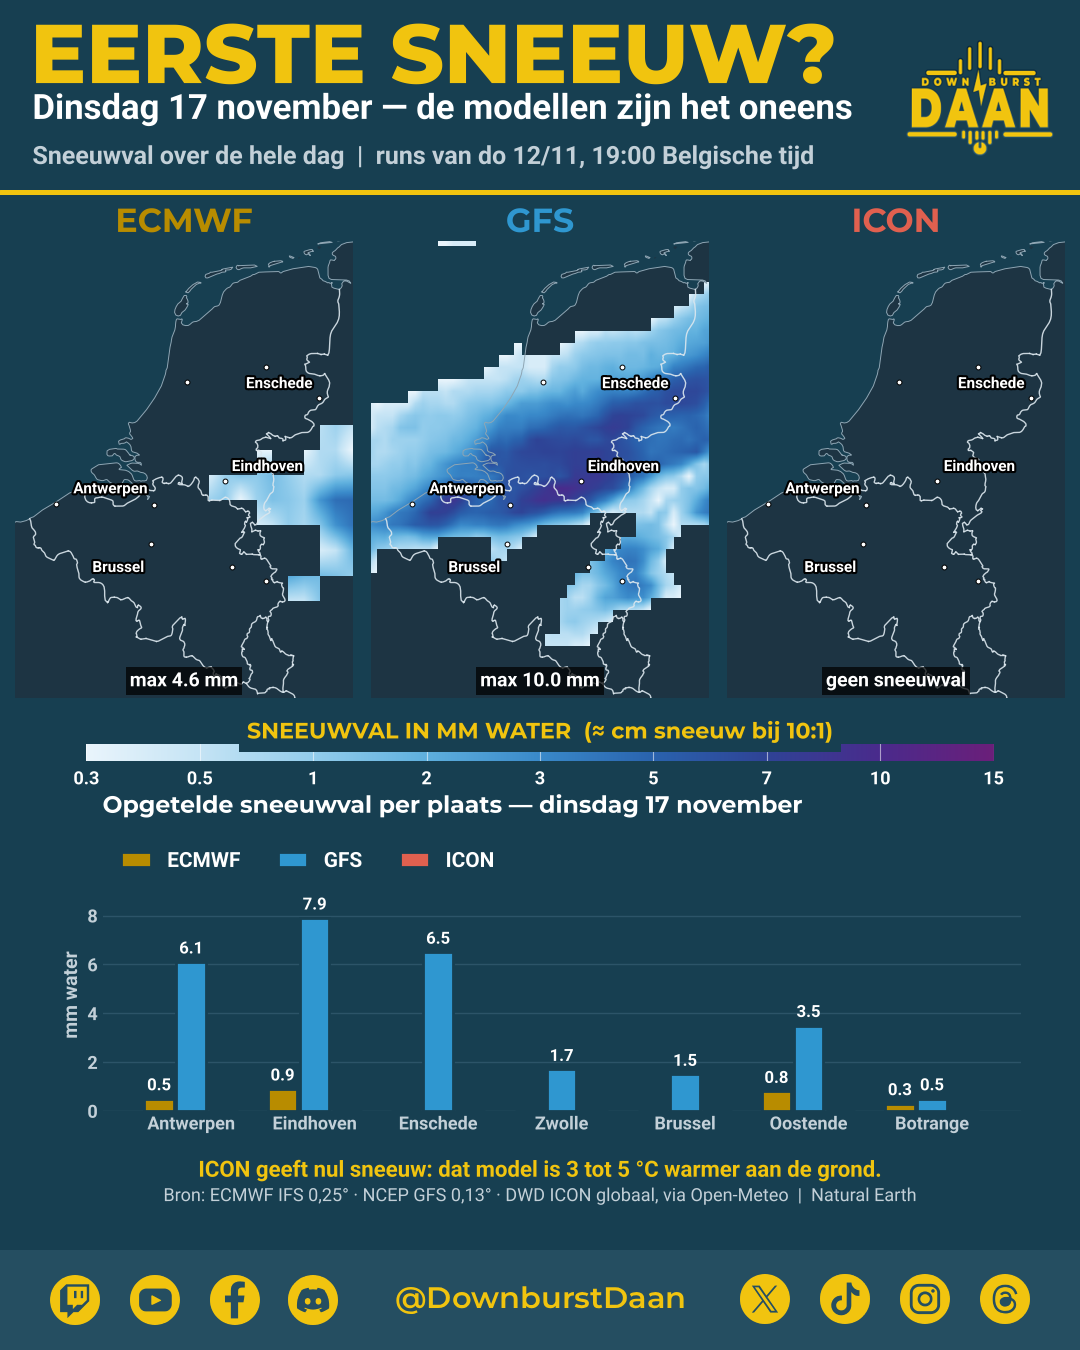
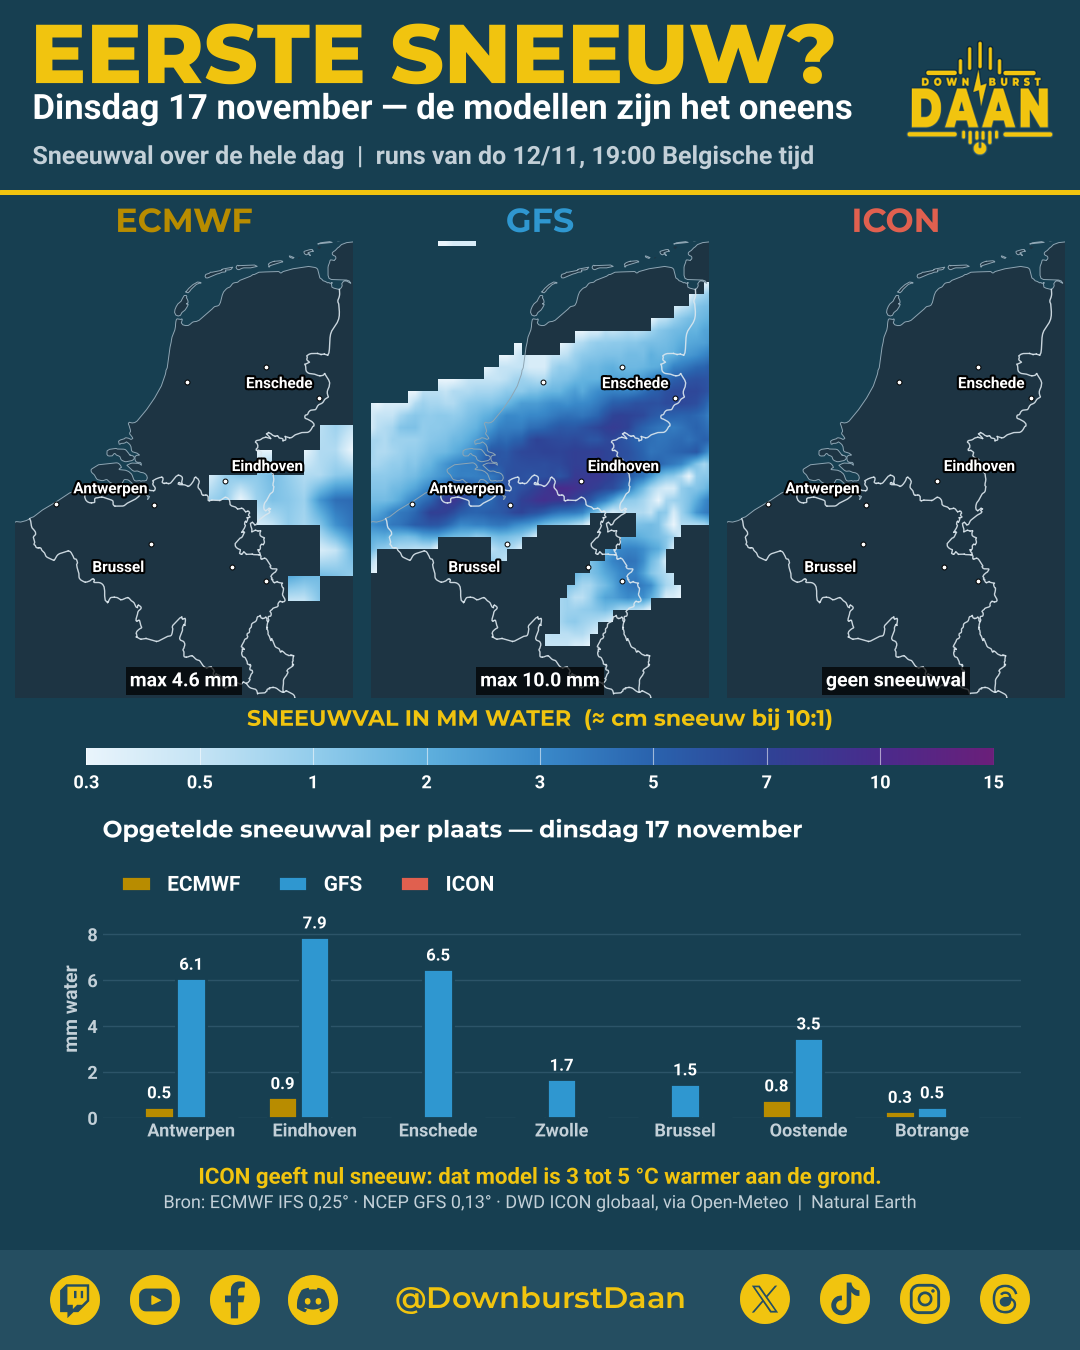
Sneeuwkaart: kleurenbalktitel boven de balk, meer ruimte rond de schaal
Claude-Session: https://claude.ai/code/session_014jJBsaEDgG1zdqphR26BCF

diff --git a/scripts/plot_snow_models.py b/scripts/plot_snow_models.py
@@ -171,7 +171,7 @@ def main():
 
     # ---------- kleurenbalk
     maps_bottom = top + 38 + ph
-    cb_y, cb_h = maps_bottom + 46, 17
+    cb_y, cb_h = maps_bottom + 50, 17
     c = fig.add_axes([0.08, 1 - (cb_y + cb_h) / H, 0.84, cb_h / H])
     c.imshow(np.linspace(0, 1, 512)[None, :], cmap=SNOW_CMAP, vmin=0, vmax=1, aspect="auto",
              extent=[0, 1, 0, 1])
@@ -184,13 +184,14 @@ def main():
         c.annotate("%g" % v, xy=(xv, 0), xytext=(0, -7), textcoords="offset points",
                    fontproperties=ROB_B(13), color=WHITE, ha="center", va="top",
                    annotation_clip=False)
-    c.text(0.5, 1.0, "SNEEUWVAL IN MM WATER  (≈ cm sneeuw bij 10:1)", transform=c.transAxes,
-           fontproperties=MONT_B(16), color=GOLD, ha="center", va="bottom",
-           bbox=dict(boxstyle="square,pad=0.35", fc=NAVY, ec="none"))
+    c.annotate("SNEEUWVAL IN MM WATER  (≈ cm sneeuw bij 10:1)", xy=(0.5, 1.0),
+               xycoords="axes fraction", xytext=(0, 12), textcoords="offset points",
+               fontproperties=MONT_B(16), color=GOLD, ha="center", va="bottom",
+               annotation_clip=False)
 
     # ---------- staafdiagram per plaats
-    bar_top = cb_y + cb_h + 118
-    bar_h = 232
+    bar_top = cb_y + cb_h + 135
+    bar_h = 218
     b = fig.add_axes([0.095, 1 - (bar_top + bar_h) / H, 0.85, bar_h / H], facecolor=NAVY)
     for sp in b.spines.values():
         sp.set_visible(False)
